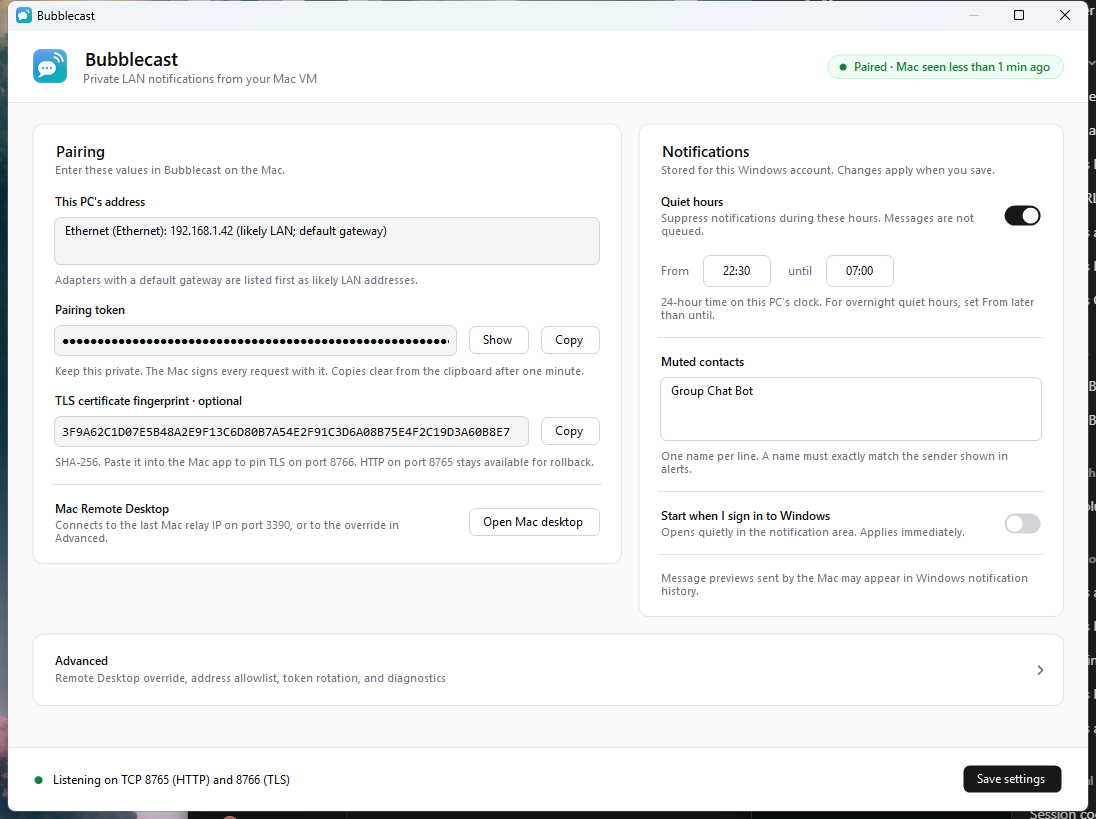
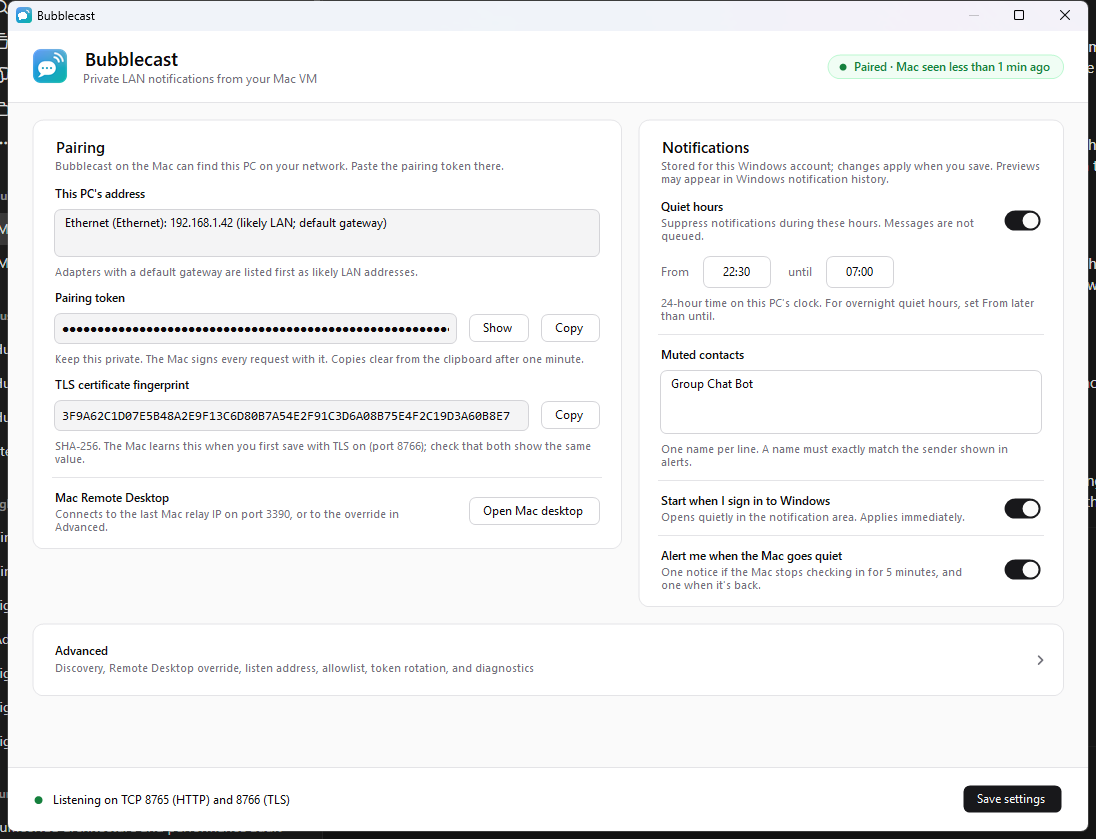
Polish Settings layout and document 1.1.0
Move the click-action switch to Advanced and fold the privacy note into
the Notifications description so the default window still opens without
scrolling (measured: 659 px of content in a 664 px viewport at
1080x800). Tighten shared spacing slightly. Update pairing copy for
discovery and first-use TLS, and refresh the README screenshots.

Docs for 1.1.0: README highlights, quick start, and requirements (macOS
13+); Mac guide pairing, TLS, and discovery; Windows guide settings,
token encryption, and tray menu; protocol v1 retirement, discovery,
and pinning on first use; changelog. VERSION 1.1.0.

diff --git a/windows/src/RelayContext.SettingsWindow.cs b/windows/src/RelayContext.SettingsWindow.cs
@@ -46,7 +46,7 @@ namespace Bubblecast
             form.AutoScaleMode = AutoScaleMode.Dpi;
             form.Font = baseFont;
             // Wide enough for Pairing and Notifications side by side, so the default view needs no scrolling.
-            form.ClientSize = new Size(1080, 780);
+            form.ClientSize = new Size(1080, 800);
             form.MinimumSize = new Size(560, 520);
             form.Load += delegate
             {
@@ -88,7 +88,7 @@ namespace Bubblecast
             header.Controls.Add(new Hairline { Dock = DockStyle.Bottom });
 
             // ── Pairing card: everything the Mac needs, above the fold ──
-            CardPanel pairingCard = UiLayout.NewCard("Pairing", "Enter these values in Bubblecast on the Mac.", sectionFont, smallFont);
+            CardPanel pairingCard = UiLayout.NewCard("Pairing", "Bubblecast on the Mac can find this PC on your network. Paste the pairing token there.", sectionFont, smallFont);
 
             string addressText = GetLocalIPv4Addresses();
             int addressLines = Math.Max(1, addressText.Split('\n').Length);
@@ -171,9 +171,9 @@ namespace Bubblecast
                 }
                 catch (ExternalException) { QueueStatus("The clipboard is busy. Try copying the TLS fingerprint again."); }
             };
-            UiLayout.AddLabel(pairingCard, "TLS certificate fingerprint · optional", labelFont);
+            UiLayout.AddLabel(pairingCard, "TLS certificate fingerprint", labelFont);
             UiLayout.AddRow(pairingCard, UiLayout.InlineRow(new FieldHost(tlsFingerprint, 1), copyFingerprint));
-            UiLayout.AddHelp(pairingCard, "SHA-256. Paste it into the Mac app to pin TLS on port 8766. HTTP on port 8765 stays available for rollback.", smallFont);
+            UiLayout.AddHelp(pairingCard, "SHA-256. The Mac learns this when you first save with TLS on (port 8766); check that both show the same value.", smallFont);
 
             UiLayout.AddSeparator(pairingCard);
             RelayButton openMac = new RelayButton("Open Mac desktop", ButtonKind.Secondary) { AccessibleName = "Open Mac Remote Desktop" };
@@ -181,7 +181,7 @@ namespace Bubblecast
             UiLayout.AddRow(pairingCard, UiLayout.ActionRow("Mac Remote Desktop", "Connects to the last Mac relay IP on port 3390, or to the override in Advanced.", openMac, labelFont, smallFont));
 
             // ── Notifications card: routine choices ──
-            CardPanel notifyCard = UiLayout.NewCard("Notifications", "Stored for this Windows account. Changes apply when you save.", sectionFont, smallFont);
+            CardPanel notifyCard = UiLayout.NewCard("Notifications", "Stored for this Windows account; changes apply when you save. Previews may appear in Windows notification history.", sectionFont, smallFont);
 
             RelaySwitch quietHours = new RelaySwitch { Checked = _quietHoursEnabled };
             UiLayout.AddRow(notifyCard, UiLayout.ActionRow("Quiet hours", "Suppress notifications during these hours. Messages are not queued.", quietHours, labelFont, smallFont));
@@ -251,14 +251,9 @@ namespace Bubblecast
             UiLayout.AddSeparator(notifyCard);
             RelaySwitch macQuietAlert = new RelaySwitch { Checked = _macQuietAlertEnabled };
             UiLayout.AddRow(notifyCard, UiLayout.ActionRow("Alert me when the Mac goes quiet", "One notice if the Mac stops checking in for 5 minutes, and one when it's back.", macQuietAlert, labelFont, smallFont));
-            UiLayout.AddSeparator(notifyCard);
-            RelaySwitch clickOpensMac = new RelaySwitch { Checked = _clickOpensMacDesktop };
-            UiLayout.AddRow(notifyCard, UiLayout.ActionRow("Clicking a notification opens the Mac", "Opens Remote Desktop to the Mac instead of Settings.", clickOpensMac, labelFont, smallFont));
-            UiLayout.AddSeparator(notifyCard);
-            UiLayout.AddRow(notifyCard, UiLayout.MakeText("Message previews sent by the Mac may appear in Windows notification history.", UiRole.Muted, smallFont, new Padding(0, 0, 0, 16)));
 
             // ── Advanced: infrequent maintenance and diagnostics, collapsed by default ──
-            CardPanel advancedCard = new CardPanel { Padding = new Padding(8) };
+            CardPanel advancedCard = new CardPanel { Padding = new Padding(8), Margin = Padding.Empty };
             DisclosureButton advancedToggle = new DisclosureButton("Advanced", "Discovery, Remote Desktop override, listen address, allowlist, token rotation, and diagnostics", labelFont, smallFont);
             TableLayoutPanel advancedBody = UiLayout.NewStack();
             advancedBody.Padding = new Padding(12, 0, 12, 4);
@@ -287,6 +282,10 @@ namespace Bubblecast
             UiLayout.AddLabel(advancedBody, "Listen address", labelFont);
             UiLayout.AddRow(advancedBody, new FieldHost(listenAddress, 1));
             UiLayout.AddHelp(advancedBody, "Leave blank to listen on every network adapter. Enter one of this PC's IPv4 addresses to accept connections only there, for example to ignore VPN and virtual adapters.", smallFont);
+
+            UiLayout.AddSeparator(advancedBody);
+            RelaySwitch clickOpensMac = new RelaySwitch { Checked = _clickOpensMacDesktop };
+            UiLayout.AddRow(advancedBody, UiLayout.ActionRow("Clicking a notification opens the Mac", "Opens Remote Desktop to the Mac instead of Settings.", clickOpensMac, labelFont, smallFont));
 
             UiLayout.AddSeparator(advancedBody);
             RelaySwitch allowPairedMacOnly = new RelaySwitch { Checked = _onlyAcceptPairedMacAddress, AccessibleName = "Restrict requests to the paired Mac IP address" };
@@ -417,7 +416,7 @@ namespace Bubblecast
             NativeTheme.FollowAppTheme(scroll);
             TableLayoutPanel page = UiLayout.NewStack();
             page.Dock = DockStyle.Top;
-            page.Padding = new Padding(24, 20, 24, 8);
+            page.Padding = new Padding(24, 16, 24, 4);
             scroll.Controls.Add(page);
             bool? wideLayout = null;
             Action updatePageLayout = delegate

diff --git a/windows/shared/BubblecastUi.cs b/windows/shared/BubblecastUi.cs
@@ -950,19 +950,19 @@ namespace Bubblecast
 
         internal static void AddHelp(TableLayoutPanel table, string text, Font font)
         {
-            AddRow(table, MakeText(text, UiRole.Muted, font, new Padding(0, 6, 0, 16)));
+            AddRow(table, MakeText(text, UiRole.Muted, font, new Padding(0, 6, 0, 12)));
         }
 
         internal static void AddSeparator(TableLayoutPanel table)
         {
-            AddRow(table, new Hairline { Margin = new Padding(0, 0, 0, 16) });
+            AddRow(table, new Hairline { Margin = new Padding(0, 0, 0, 12) });
         }
 
         internal static CardPanel NewCard(string title, string description, Font titleFont, Font descriptionFont)
         {
             CardPanel card = new CardPanel();
             AddRow(card, MakeText(title, UiRole.Body, titleFont, new Padding(0, 0, 0, 2)));
-            AddRow(card, MakeText(description, UiRole.Muted, descriptionFont, new Padding(0, 0, 0, 18)));
+            AddRow(card, MakeText(description, UiRole.Muted, descriptionFont, new Padding(0, 0, 0, 14)));
             return card;
         }
 
@@ -1001,7 +1001,7 @@ namespace Bubblecast
                 RowCount = 2,
                 AutoSize = true,
                 AutoSizeMode = AutoSizeMode.GrowAndShrink,
-                Margin = new Padding(0, 0, 0, 16),
+                Margin = new Padding(0, 0, 0, 12),
                 Anchor = AnchorStyles.Left | AnchorStyles.Right | AnchorStyles.Top
             };
             row.ColumnStyles.Add(new ColumnStyle(SizeType.Percent, 100F));

diff --git a/README.md b/README.md
@@ -9,7 +9,7 @@ A tiny, private relay that turns new messages on your Mac into native Windows no
 over your own network, with nothing in the cloud.
 
 [![Latest release](https://img.shields.io/github/v/release/exelaguilar/bubblecast?label=release&color=0EB5A6)](https://github.com/exelaguilar/bubblecast/releases/latest)
-![macOS 15](https://img.shields.io/badge/macOS-15%20Sequoia%20%C2%B7%20universal-2B8CF5?logo=apple&logoColor=white)
+![macOS 13+](https://img.shields.io/badge/macOS-13%2B%20%C2%B7%20universal-2B8CF5?logo=apple&logoColor=white)
 ![Windows 10/11](https://img.shields.io/badge/Windows-10%20%7C%2011-2B8CF5?logo=windows&logoColor=white)
 ![Dependencies](https://img.shields.io/badge/dependencies-zero-0EB5A6)
 ![LAN only](https://img.shields.io/badge/network-LAN%20only-0EB5A6)
@@ -36,12 +36,14 @@ No Apple ID sharing. No cloud relay. No account. Just two small native apps talk
 
 |  |  |
 | --- | --- |
-| ⚡ **Fast** | Messages are picked up within about three seconds; bursts are batched into one tidy toast. |
-| 🔒 **Private by design** | LAN only, no cloud. Every request is HMAC-SHA256 signed with replay protection; optional TLS with certificate pinning. |
+| ⚡ **Instant** | The Mac reacts the moment Messages writes a new message; bursts are batched into one tidy notification. |
+| 🔒 **Private by design** | LAN only, no cloud. Every request is HMAC-SHA256 signed with replay protection, and TLS pinned to your PC's certificate is on by default. |
 | 👀 **Read-only** | The Mac app only *reads* the Messages database. It never sends, replies, or modifies anything. |
 | 🧠 **Smart filtering** | Skips old and iCloud-synced backlog, de-duplicates, names group chats, and sends one catch-up summary after the PC was offline. |
 | 🙋 **Real names** | Shows the sender from your Contacts, or from your own `address = name` overrides. Previews are opt-in. |
+| 🔎 **Zero-typing pairing** | Windows announces itself on your network; the Mac lists it, you click **Use**, paste the token, and compare one fingerprint. |
 | 🌙 **Quiet hours & mutes** | Silence notifications overnight or mute specific senders on Windows. |
+| 🚨 **Knows when the Mac goes quiet** | One notice on Windows if the Mac stops checking in for five minutes, and another when it's back. |
 | 🖥 **Truly native** | SwiftUI on macOS, WinForms on Windows, light and dark themes on both — and zero third-party dependencies. |
 | 🧰 **Home-lab friendly** | Built for a headless macOS VM: open-at-login, health checks, one-click Remote Desktop to the Mac, and privacy-safe diagnostics. |
 
@@ -50,11 +52,11 @@ No Apple ID sharing. No cloud relay. No account. Just two small native apps talk
 ```mermaid
 flowchart LR
     A["💬 Messages<br/><sub>chat.db, read-only</sub>"] --> B["Bubblecast for Mac<br/><sub>menu-bar app</sub>"]
-    B -- "signed request<br/>HTTP 8765 or pinned TLS 8766" --> C["Bubblecast for Windows<br/><sub>tray app</sub>"]
+    B -- "signed request<br/>pinned TLS 8766 (or HTTP 8765)" --> C["Bubblecast for Windows<br/><sub>tray app</sub>"]
     C --> D["🔔 Windows notification"]
 ```
 
-1. The Mac app polls the Messages database (read-only) for new incoming rows.
+1. The Mac app watches the Messages database (read-only) and reads new incoming rows as soon as they're written.
 2. It builds a small, signed request — sender, optional group name, optional preview — and sends it to your PC.
 3. The Windows app verifies the signature, timestamp, and nonce, applies quiet hours and mutes, and shows the notification.
 
@@ -70,7 +72,7 @@ Attachments, message history, and your Apple ID never leave the Mac.
 
 > Bubblecast isn't signed with an Apple Developer ID, so the first launch is blocked. Open **System Settings → Privacy & Security**, scroll to the message about Bubblecast, and click **Open Anyway**. You only need to do this once per version.
 
-**3. Pair** — Paste the Windows address and pairing token into the Mac app, click **Save**, then **Send test**. A notification on your PC means you're done. 🎉
+**3. Pair** — In the Mac app, click **Use** next to your PC under *Found on your network* (or type its address), paste the pairing token from Windows, and click **Save**. The Mac learns your PC's TLS certificate; check that its fingerprint matches the one Bubblecast shows on Windows, click **Save** again, then **Send test**. A notification on your PC means you're done. 🎉
 
 Full walkthroughs: [Mac guide](docs/MAC.md) · [Windows guide](docs/WINDOWS.md)
 
@@ -100,11 +102,11 @@ Pairing details and connection status live front and center; routine notificatio
 ## 🔐 Private by design
 
 - **Authenticated:** every request carries an HMAC-SHA256 signature over a canonical payload, a timestamp (±120 s), and a one-time nonce. Wrong tokens, replays, and clock skew are rejected and counted.
-- **Encrypted (optional):** turn on pinned TLS and the Mac only talks to the exact certificate your PC generated.
+- **Encrypted by default:** the Mac pins your PC's own certificate the first time you pair (after you compare fingerprints) and only talks to that exact certificate afterward. Plain HTTP stays available if you turn TLS off.
 - **Minimal data:** sender, group name, and a preview capped at 180 characters — and previews are opt-in. No attachments, ever.
-- **Secrets stay put:** the pairing token lives in the Mac Keychain and in your Windows profile. Copying it on Windows skips Clipboard History and clears itself after a minute.
+- **Secrets stay put:** the pairing token lives in the Mac Keychain and, on Windows, in your profile encrypted with Windows DPAPI. Copying it on Windows skips Clipboard History and clears itself after a minute.
 - **Stays on your LAN:** nothing is sent to the internet. Setup never adds firewall rules — don't port-forward the relay ports.
-- **Hardened receiver:** bounded request sizes and timeouts, a connection cap, and an optional "only accept the paired Mac's IP" allowlist.
+- **Hardened receiver:** bounded request sizes and timeouts, a connection cap, an optional "only accept the paired Mac's IP" allowlist, and an optional single listen address.
 
 Wire format and test vectors: [docs/PROTOCOL.md](docs/PROTOCOL.md).
 
@@ -112,7 +114,7 @@ Wire format and test vectors: [docs/PROTOCOL.md](docs/PROTOCOL.md).
 
 | | |
 | --- | --- |
-| **Mac** | macOS 15 Sequoia on Intel or Apple Silicon (a Mac or a macOS VM), signed in to Messages. |
+| **Mac** | macOS 13 Ventura or later on Intel or Apple Silicon (a Mac or a macOS VM), signed in to Messages. |
 | **Windows** | Windows 10 or 11 with .NET Framework 4.x (built in). |
 | **Network** | Both machines on the same trusted LAN. |
 

diff --git a/docs/MAC.md b/docs/MAC.md
@@ -1,6 +1,6 @@
 # Bubblecast for Mac — full guide
 
-Bubblecast for Mac is a SwiftUI menu-bar app for macOS 15 Sequoia on Intel or Apple Silicon (a Mac or a macOS VM). It reads the Messages database read-only, filters out old and duplicate rows, optionally resolves contact names, and sends signed notifications to Bubblecast for Windows on your LAN.
+Bubblecast for Mac is a SwiftUI menu-bar app for macOS 13 Ventura and later on Intel or Apple Silicon (a Mac or a macOS VM). It reads the Messages database read-only, filters out old and duplicate rows, optionally resolves contact names, and sends signed notifications to Bubblecast for Windows on your LAN.
 
 ## Install
 
@@ -21,7 +21,7 @@ bash macos/build.command           # build for this Mac, install to ~/Applicatio
 bash macos/build.command package   # universal app and dist/Bubblecast-<version>.dmg (installs nothing)
 ```
 
-The script builds the icon set from `macos/Resources/AppIcon-1024.png`, compiles for macOS 15, signs ad hoc, and (in install mode) asks a running copy to quit before replacing it.
+The script builds the icon set from `macos/Resources/AppIcon-1024.png`, compiles for macOS 13 and later, signs ad hoc, and (in install mode) asks a running copy to quit before replacing it.
 
 To sign with a stable identity instead of ad hoc, set `RELAY_SIGN_IDENTITY` to the name of a signing identity in your Keychain before building. A stable identity keeps Full Disk Access and Contacts permissions across updates.
 
@@ -29,19 +29,25 @@ To sign with a stable identity instead of ad hoc, set `RELAY_SIGN_IDENTITY` to t
 
 - **Full Disk Access** (required): **System Settings → Privacy & Security → Full Disk Access**, then add Bubblecast (`/Applications/Bubblecast.app`, or `~/Applications/Bubblecast.app` if you built it yourself). This lets the app read `~/Library/Messages/chat.db`.
 - **Contacts** (optional): allow it to show sender names. Without it, notifications are generic unless you add name overrides.
-- **Local Network**: allow it if macOS asks.
+- **Local Network**: allow it when macOS asks. Bubblecast uses it to find your PC and to send it notifications.
 
 ## Pairing
 
-1. Open Bubblecast on Windows and note **This PC's address** and the **Pairing token**.
-2. Open Bubblecast from the Mac menu bar and enter the Windows host name, IPv4 address, or bracketed IPv6 address, plus the token.
-3. Click **Save**, then **Send test**. A test notification appears on Windows.
+1. Open Bubblecast on Windows and copy the **Pairing token**.
+2. Open Bubblecast from the Mac menu bar. Under **Windows PC address**, your PC appears in *Found on your network*; click **Use**. (Or type its host name, IPv4 address, or bracketed IPv6 address.)
+3. Paste the token and click **Save**.
+4. With **Use pinned TLS** on (the default), the Mac contacts Windows and fills in the certificate fingerprint it learned. Check that it matches the **TLS certificate fingerprint** shown on Windows, then click **Save** again to pin it.
+5. Click **Send test**. A test notification appears on Windows.
 
-The token is stored in the Mac Keychain. Requests go to Windows on TCP `8765` over HTTP and are signed with HMAC-SHA256.
+The token is stored in the Mac Keychain, and every request is signed with HMAC-SHA256.
 
-### Pinned TLS (optional)
+### TLS and the certificate fingerprint
 
-To encrypt notifications on the LAN, copy the **TLS certificate fingerprint** from Windows, turn on **Use pinned TLS**, paste the 64-character SHA-256 fingerprint, and save. The Mac then connects on TCP `8766` and only trusts that exact certificate. HTTP on `8765` remains available if you turn TLS off.
+With pinned TLS on, the Mac connects to Windows on TCP `8766` and only trusts the exact certificate whose SHA-256 fingerprint you saved. Leaving the fingerprint blank and saving lets the Mac learn it from Windows the first time (trust on first use); you can also paste it from Windows yourself. If you turn TLS off, requests use HTTP on TCP `8765`; they are still signed, but not encrypted.
+
+### Discovery
+
+Bubblecast on Windows announces itself as `_bubblecast._tcp` on the local network, and the Mac lists every receiver it finds. A chosen PC is addressed as `<PC name>.local`, so it keeps working when the PC's IP address changes. Discovery only finds the PC; pairing still needs the token. If your PC doesn't appear, check that both machines are on the same network, that **Let the Mac find this PC** is on in Windows Advanced settings, and that Bubblecast has Local Network permission in **System Settings → Privacy & Security → Local Network**.
 
 ## Settings
 
@@ -54,7 +60,7 @@ To encrypt notifications on the LAN, copy the **TLS certificate fingerprint** fr
 
 ## Delivery behavior
 
-- New messages are picked up within about three seconds.
+- New messages are picked up as soon as Messages writes them (the app watches the database files, with a 5-second fallback check).
 - If Windows is unreachable, messages wait and retry with backoff. Messages that were fresh when first read but wait longer than the maximum age are delivered as one count-only catch-up alert once Windows is reachable again.
 - If Windows rejects a request (wrong token or clock skew), delivery pauses and the reason is shown in the status card.
 - Duplicate rows are suppressed by message ID on both sides.
@@ -86,5 +92,6 @@ See the [protocol notes and test vectors](PROTOCOL.md) for the request format sh
 - **"Bubblecast can't be opened"**: use **Open Anyway** in **System Settings → Privacy & Security**.
 - **Rejected — check the pairing token or Mac clock**: re-copy the token from Windows, and make sure both clocks are within two minutes of each other.
 - **Unreachable**: check the Windows address, that Bubblecast is running on Windows, and that the Windows firewall allows the port on your private network.
+- **Couldn't reach Windows over TLS**: check that Windows shows a TLS certificate fingerprint (port `8766`) and that the firewall allows it; or turn TLS off to use HTTP.
 - **Copy privacy-safe diagnostics** (under Advanced) copies counts and status only. It excludes addresses, tokens, sender names, and message text.
 - Never share `chat.db`, logs, or screenshots that show your token.

diff --git a/docs/WINDOWS.md b/docs/WINDOWS.md
@@ -23,7 +23,7 @@ Open **Bubblecast** from the Start menu, the desktop, or by double-clicking the 
 
 - **This PC's address**: IPv4 addresses by adapter. Adapters with a default gateway are listed first as likely LAN addresses.
 - **Pairing token**: shown masked; **Show** reveals it and **Copy** copies it. Copies are excluded from Clipboard History and cleared after one minute.
-- **TLS certificate fingerprint**: paste it into the Mac app to enable pinned TLS.
+- **TLS certificate fingerprint**: the Mac learns it the first time it connects over TLS; check that both apps show the same value.
 - **Open Mac desktop**: starts Remote Desktop to the last Mac address on port `3390`, or to the override in Advanced.
 
 **Notifications** (apply when you click **Save settings**)
@@ -31,12 +31,16 @@ Open **Bubblecast** from the Start menu, the desktop, or by double-clicking the 
 - **Quiet hours**: suppress notifications between two 24-hour `HH:mm` times on this PC's clock. Notifications aren't queued. Set *From* later than *until* for overnight hours.
 - **Muted contacts**: one sender name per line, matched exactly.
 - **Start when I sign in to Windows**: applies immediately.
+- **Alert me when the Mac goes quiet**: one notice if the Mac stops checking in for 5 minutes (it checks in every minute), and one when it's back. On by default.
 
 Test notifications from the Mac always appear, even during quiet hours or for muted senders.
 
 **Advanced** (collapsed by default)
 
+- **Let the Mac find this PC**: announces this PC as `<PC name>._bubblecast._tcp` on the local network so the Mac can list it. On by default.
 - **Mac Remote Desktop address**: optional override such as `mac-vm.local:3390`.
+- **Clicking a notification opens the Mac**: opens Remote Desktop to the Mac instead of Settings.
+- **Listen address**: blank listens on every adapter; one of this PC's IPv4 addresses accepts connections only there (for example, to ignore VPN and virtual adapters). Listeners restart when you save.
 - **Only accept requests from the paired Mac IP**: accepts requests only from the last address that sent a valid signed request. If the Mac's address changes, turn this off, let the Mac connect, then turn it back on.
 - **Rotate pairing token**: replaces the token immediately; notifications stop until the Mac has the new token.
 - **Diagnostics**: notification and health-check counts, rejections by reason (bad signature, clock skew, replay, malformed, oversize, address not allowed), and the last authenticated clock skew. **Copy privacy-safe diagnostics** excludes the token, addresses, sender names, and message text.
@@ -45,7 +49,7 @@ The footer shows the live receiver status and the header shows the pairing state
 
 ## Network and security
 
-- Every request must carry a valid HMAC-SHA256 signature, a timestamp within ±120 seconds, and a fresh nonce. Requests from before the app started are rejected as replays.
+- Requests must use protocol v2 and carry a valid HMAC-SHA256 signature, a timestamp within ±120 seconds, and a fresh nonce. Requests from before the app started are rejected as replays.
 - HTTP on `8765` authenticates requests but doesn't encrypt them; turn on pinned TLS on the Mac to encrypt notification contents. The TLS certificate is self-signed and stored in your Windows user's certificate store.
 - Request lines, headers, and sender/preview sizes are bounded, slow requests time out, and at most four connections are handled at once.
 - If the Windows firewall blocks the Mac, add a narrow inbound rule yourself for your private network and the port you use. Never port-forward `8765` or `8766` to the internet.
@@ -55,12 +59,12 @@ The footer shows the live receiver status and the header shows the pairing state
 | Data | Location |
 | --- | --- |
 | App | `C:\Program Files\Bubblecast` |
-| Pairing token | `%LOCALAPPDATA%\Bubblecast\token.txt` |
+| Pairing token | `%LOCALAPPDATA%\Bubblecast\token.txt`, encrypted with Windows DPAPI for your user account |
 | Settings | `HKCU\Software\Bubblecast` |
 | TLS certificate | Current user's personal certificate store, `CN=Bubblecast Local TLS` |
 | Sign-in shortcut | `Startup\Bubblecast.lnk` |
 
-If `token.txt` is damaged, Bubblecast stops with a repair message. Delete the file to generate a new token, then update the Mac.
+If `token.txt` is damaged or can't be decrypted (for example after an administrator resets your Windows password), Bubblecast stops with a repair message. Delete the file to generate a new token, then update the Mac.
 
 ## Uninstall
 
@@ -77,3 +81,7 @@ cmd /c windows\build.cmd test
 This builds `windows\build\Bubblecast.exe` and `windows\build\Bubblecast Setup.exe`, then runs the pure-logic checks (token validation, request parsing, text sanitizing, protocol vectors, startup shortcut policy, quiet hours, and status display). `cmd /c windows\build.cmd release` also copies both executables to `windows\release\` and writes `SHA256SUMS` and `RELEASE-NOTES.md` with the source commit and compiler version.
 
 The build embeds `Bubblecast.ico` and `BrandMark.png`, which are generated by `tools/BrandIcon.cs`. See the [protocol notes and test vectors](PROTOCOL.md) for the request format.
+
+## Tray menu
+
+Right-click the tray icon for **Settings**, **Open Mac Remote Desktop**, **Recent notifications** (the last few alerts, kept in memory only and cleared when Bubblecast exits), and **Exit**.

diff --git a/CHANGELOG.md b/CHANGELOG.md
@@ -1,5 +1,35 @@
 # Changelog
 
+## 1.1.0 — November 2026
+
+### New
+
+- **Pairing without typing addresses.** Windows announces itself on the local network; the Mac lists it under *Found on your network* with a **Use** button (addressed as `<PC name>.local`, so it keeps working if the PC's IP changes). Turn it off with **Let the Mac find this PC** in Advanced.
+- **TLS on by default, pinned on first use.** With TLS on and no fingerprint, saving on the Mac learns the certificate Windows presents and fills in its fingerprint to compare; saving again pins it.
+- **"Mac went quiet" notice** on Windows after 5 minutes without a check-in, and a notice when the Mac is back (on by default).
+- **Recent notifications** submenu on the Windows tray icon (memory only).
+- **Listen address** (Advanced): optionally accept connections on just one of the PC's IPv4 addresses. Listeners restart in place when it changes.
+- Option for clicking a notification to open Remote Desktop to the Mac.
+- The Mac app now runs on **macOS 13 Ventura and later**.
+
+### Faster and safer
+
+- The Mac reads new messages as soon as Messages writes them (file-change events, with a 5-second fallback poll) and keeps one read-only database connection open instead of reopening it every 3 seconds. Pinned-TLS requests reuse one session per fingerprint.
+- The Windows pairing token is encrypted at rest with DPAPI; an existing plain-text token is upgraded on first run.
+- Windows accepts only protocol v2; the unused v1 format is no longer accepted.
+- Fixed Mac counters being published from a background thread.
+
+### Under the hood
+
+- Mac: the relay core is split into `DeliveryQueue`, `MessagesDatabase`, `RelayClient`, `ContactResolver`, `MessagesChangeMonitor`, and `WindowsDiscovery`; the self-checks now test the real delivery code instead of a copy.
+- Windows: `RelayContext` is split into partial files, request verification is a tested `RequestVerifier`, and Setup shares the receiver's UI code (and is now DPI-aware).
+- GitHub Actions builds and checks both apps on every push and attaches Setup, the portable app, and the Mac disk image to each release. Dependabot keeps the actions current.
+- Checks: 36 on macOS, 51 on Windows.
+
+### Tried and not shipped
+
+- Real WinRT toast notifications: an unpackaged .NET Framework app can't create a toast notifier on current Windows without app packaging or the Windows App SDK, so Bubblecast keeps notification-area balloons, which Windows also lists in the notification center.
+
 ## 1.0.0 — November 2026
 
 First public release of Bubblecast.

diff --git a/docs/PROTOCOL.md b/docs/PROTOCOL.md
@@ -1,6 +1,6 @@
 # Bubblecast relay protocol (v1 and v2)
 
-This document defines the request format between Bubblecast for Mac and Bubblecast for Windows. The Mac sends v2; Windows also accepts the simpler v1 format. HTTP v1 remains available on TCP 8765. v2 requests may use the same HTTP endpoint or pinned TLS on TCP 8766. HMAC-SHA256 authenticates and protects request integrity; only TLS hides notification contents on the LAN.
+This document defines the request format between Bubblecast for Mac and Bubblecast for Windows. Both sides use v2. The v1 format described below is kept only as a reference vector for the shared HMAC; since 1.1.0 Windows rejects requests without `X-Relay-Version: 2`. HTTP v1 remains available on TCP 8765. v2 requests may use the same HTTP endpoint or pinned TLS on TCP 8766. HMAC-SHA256 authenticates and protects request integrity; only TLS hides notification contents on the LAN.
 
 ## Endpoints and responses
 
@@ -120,4 +120,12 @@ Windows generates a self-signed TLS 1.2 certificate in the current user's certif
 
 ## Compatibility boundary
 
-Bubblecast for Windows accepts both v1 and v2 requests on port 8765, and v2 on port 8766 when TLS is enabled. Bubblecast for Mac always sends v2. When updating both sides, update Windows first.
+Bubblecast for Windows 1.1.0 and later accepts only v2 requests, on port 8765 (HTTP) and on port 8766 (TLS) when its certificate is available. Bubblecast for Mac always sends v2.
+
+## Discovery
+
+Windows announces the receiver with DNS-SD over multicast DNS as `<PC name>._bubblecast._tcp.local`, with an SRV record for port 8765, TXT keys `v=2` and `tls=8766` (empty when TLS is unavailable), and address records for `<PC name>.local`. It announces on the primary LAN address, or on the configured listen address. The Mac browses for `_bubblecast._tcp` and addresses a chosen PC as `<PC name>.local`. Discovery only finds the PC; every request is still signed with the pairing token.
+
+## Pinning on first use
+
+With TLS on and no fingerprint saved, the Mac sends one signed `/health` request over TLS that accepts the certificate Windows presents, and fills in that certificate's SHA-256 fingerprint for the user to compare with the fingerprint Windows shows. The fingerprint is pinned when the user saves it; after that the Mac rejects any other certificate.
